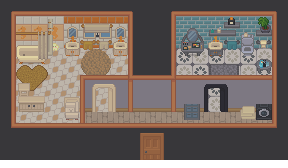
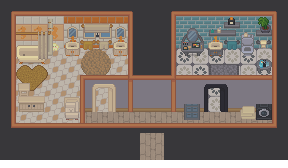
fix(playerPosition): merge development into current branch, resolved conflicts, made bathroom accessible

Changed region(s): [[0.4688, 0.7738, 0.5938, 0.9524]]

diff --git a/src/pixi/container/MainContainer.tsx b/src/pixi/container/MainContainer.tsx
@@ -3,23 +3,16 @@ import {Container, Graphics} from "@pixi/react";
 import {Texture} from "pixi.js";
 
 import {Level} from "@/pixi/levels/Level";
-import characterImage from "@/assets/character/character_movement.png";
 import {Character} from "@/pixi/character/Character";
 
 import {DEFAULT_POS_X, DEFAULT_POS_Y, TILE_SIZE} from "@/pixi/constants/world-settings";
-import {MapKey, Transition} from "@/types/maps";
+import {MapKey} from "@/types/maps";
 import {DoorState} from "@/types/door";
 import {Direction, Position} from "@/types/movement";
 
 import {useLevelTextures} from "@/hooks/map/useLevelTextures";
 import {getMapTransition, getSpawnForMap, getTransitionsForMap} from "@/utils/mapTransition";
 import {loadTexture} from "@/utils/loadTexture";
-import {MapKey} from "@/types/maps";
-import {useLevelTextures} from "@/hooks/map/useLevelTextures";
-import {getMapTransition, getSpawnForMap} from "@/utils/mapTransition";
-import {Position} from "@/types/movement";
-import {Door} from "@/pixi/levels/Door";
-import {DoorState} from "@/types/door";
 import {TransitionOverlay} from "@/pixi/components/TransitionOverlay";
 import {InteractivePixiElement} from "@/objects/InteractivePixiElement.ts";
 import {HeadUpDisplay} from "@/pixi/components/HeadUpDisplay.tsx";
@@ -29,7 +22,13 @@ import {characterPositionStore, useCharacterPosition} from "@/utils/characterPos
 import {useTutorialActive} from "@/hooks/gameService/useTutorialActive.ts";
 import {MovementButtons} from "@/components/general-ui/MovementButtons.tsx";
 import {ProximityHighlight} from "@/pixi/components/ProximityHighlight.tsx";
-import {RoomNames} from "@/objects/RoomNames.ts";
+import {RoomNames, roomNameToEnum} from "@/objects/RoomNames.ts";
+import {Camera} from "@/pixi/camera/Camera.tsx";
+import {DoorFloor} from "@/pixi/levels/DoorFloor.tsx";
+import {LevelOverlay} from "@/pixi/levels/LevelOverlay.tsx";
+import {DoorBlocker} from "@/pixi/components/DoorBlocker.tsx";
+import {DoorFrame} from "@/pixi/levels/DoorFrame.tsx";
+import {getTexture} from "@/components/character/CharacterSelector.tsx";
 
 interface MainContainerProps {
     canvasSize: {
@@ -67,9 +66,7 @@ export const MainContainer = ({
     /**
      * State to track the spawn position of the character.
      */
-    const [spawnPosition, setSpawnPosition] = useState<Position>({x: DEFAULT_POS_X, y: DEFAULT_POS_Y});
-
-    const characterTexture = useMemo(() => loadTexture(characterImage), []);
+  const characterTexture = useMemo(() => loadTexture(getTexture()), []);
   const { levelTexture, overlayTexture, doorFloorTexture,
     doorFrameFrontTexture, doorFrameBackTexture } = useLevelTextures(map);
   const { tile: characterTile } = useCharacterPosition();
@@ -120,8 +117,10 @@ export const MainContainer = ({
     const exitState = gameService.getExitState(map, transition.to);
     const isLocked = exitState === DoorState.Closed;
 
-    if (isLocked)
-    { setBlockedDoorTo(roomNameToEnum(transition.to) ?? null); return; }
+    if (isLocked) {
+      setBlockedDoorTo(roomNameToEnum(transition.to) ?? null);
+      return;
+    }
 
     setBlockedDoorTo(null);
 
@@ -130,26 +129,43 @@ export const MainContainer = ({
             ? { x: spawn.pos.x * TILE_SIZE, y: spawn.pos.y * TILE_SIZE }
             : { x: DEFAULT_POS_X, y: DEFAULT_POS_Y };
 
-    const face: Direction = spawn?.face ?? "UP";
+      const face: Direction = spawn?.face ?? "UP";
 
-      setPendingTransition({ to: transition.to, spawn: nextSpawn });
+      setPendingTransition({ to: transition.to, spawn: nextSpawn, face: face });
       setInTransition(true);
       setShouldSnapCamera(true);
-    }
+
   };
 
-  const transitionFromTop = (tr: Transition): boolean => {
-    return tr.to != RoomNames.BATHROOM
+  const getDoorFrames = (room: RoomNames, state: boolean) => {
+    const front = doorFrameFrontTexture
+    const back = doorFrameBackTexture
+
+    if(roomNameToEnum(map) != RoomNames.HALLWAY) return state ? doorFrameBackTexture : doorFrameFrontTexture
+    if (state){
+      switch (room){
+        case RoomNames.LIVINGROOM:
+          return [front[0], front[1], front[2]]
+        case RoomNames.KITCHEN:
+          return [front[3], front[4], front[5]]
+        default:
+          return []
+      }
+    }else{
+      if (room === RoomNames.BATHROOM){
+        return [back[0], back[1], back[2]]
+      }else{
+        return []
+      }
+    }
   }
 
   const doorFrame = (state: boolean) =>
           getTransitionsForMap(map)
-            .filter(tr => transitionFromTop(tr))
             .map((tr, i) => (
                     <DoorFrame
                             key={`${map}-${tr.to}-${i}`}
-                            index={i}
-                            textures={state ? doorFrameBackTexture : doorFrameFrontTexture}
+                            textures={getDoorFrames(roomNameToEnum(tr.to) as RoomNames,  state)}
                             map={map}
                             gameService={gameService}
                             transition={tr}
@@ -202,14 +218,13 @@ export const MainContainer = ({
                                   onMove={handleCharacterMove}
                                   collisionMap={collisionMap}
                                   isPaused={isPaused as boolean}
-                                  spawnPosition={spawnPosition}
                                   interactiveElements={interactiveElements}
                           />
                           <LevelOverlay texture={overlayTexture} />
                           {doorFrame(false)}
                           <DoorBlocker
                                   room={room}
-                                  to={blockedDoorTo}
+                                  to={blockedDoorTo as RoomNames}
                                   visible={!!blockedDoorTo}
                                   ww={canvasSize.width}
                                   wh={canvasSize.height}

diff --git a/src/pixi/constants/levels/level-textures.ts b/src/pixi/constants/levels/level-textures.ts
@@ -2,9 +2,9 @@ import livingroomImg from '@/assets/levels/livingroom/livingroom.png';
 import livingroomOverlayImg from '@/assets/levels/livingroom/livingroom_overlay.png';
 import kitchenImg from '@/assets/levels/kitchen/kitchen.png';
 import kitchenOverlayImg from '@/assets/levels/kitchen/kitchen_overlay.png';
-import kitchenDoorClosedImg from '@/assets/levels/kitchen/kitchen_door_closed.png';
-import kitchenDoorHalfOpenImg from '@/assets/levels/kitchen/kitchen_door_half_open.png';
-import kithenDoorOpenImg from '@/assets/levels/kitchen/kitchen_door_open.png';
+import defaultDoorClosedImg from '@/assets/levels/doors/door_closed.png';
+import defaultDoorHalfOpenImg from '@/assets/levels/doors/door_half_open.png';
+import defaultDoorOpenImg from '@/assets/levels/doors/door_open.png';
 import hallwayImg from '@/assets/levels/hallway/hallway.png';
 import hallwayOverlayImg from '@/assets/levels/hallway/hallway_overlay.png';
 import bathroomImg from '@/assets/levels/bathroom/bathroom.png';
@@ -33,20 +33,42 @@ import hallwayBathroomDoorOpenImg
 
 import livingRoomFloorImg from '@/assets/levels/hallway/doors/to_livingroom/floor/hallway_to_living_room_floor.png';
 import kitchenFloorImg from '@/assets/levels/hallway/doors/to_kitchen/floor/hallway_to_kitchen_floor.png';
-import bathroomFloorImg from '@/assets/levels/hallway/doors/to_bathroom/floor/hallway_to_kitchen_floor.png';
+import bathroomFloorImg from '@/assets/levels/hallway/doors/to_bathroom/floor/hallway_to_bathroom_floor.png';
 
-export const LEVEL_TEXTURES: {
-  hallway: { overlay: {}; level: {}; doorFloor: {}[]; doorFrameFront: {}[]; doorFrameBack: {}[] };
-  livingroom: { overlay: {}; level: {}; doorFrameFront: {}[] };
-  kitchen: { overlay: {}; level: {}; doorFrameFront: {}[] };
-  bathroom: { overlay: {}; level: {} }
-} = {
-  livingroom: { level: livingroomImg, overlay: livingroomOverlayImg, doorFrameFront: [kitchenDoorClosedImg, kitchenDoorHalfOpenImg, kithenDoorOpenImg]},
-  kitchen: { level: kitchenImg, overlay: kitchenOverlayImg, doorFrameFront: [kitchenDoorClosedImg, kitchenDoorHalfOpenImg, kithenDoorOpenImg]},
-  hallway: { level: hallwayImg, overlay: hallwayOverlayImg, doorFloor: [livingRoomFloorImg, kitchenFloorImg, bathroomFloorImg], doorFrameBack:
-            [hallwayLivingRoomDoorClosedImg, hallwayLivingRoomDoorHalfOpenImg, hallwayLivingRoomDoorOpenImg,
-              hallwayKitchenDoorClosedImg, hallwayKitchenDoorHalfOpenImg, hallwayKitchenDoorOpenImg],
-          doorFrameFront: [hallwayBathroomDoorClosedImg, hallwayBathroomDoorHalfOpenImg, hallwayBathroomDoorOpenImg]},
-  bathroom: { level: bathroomImg, overlay: bathroomOverlayImg },
+interface RoomTextures {
+  level: string;
+  overlay: string;
+  doorFloor?: string[];
+  doorFrameFront?: string[];
+  doorFrameBack?: string[];
+}
+
+export const LEVEL_TEXTURES = {
+  livingroom: {
+    level: livingroomImg as string,
+    overlay: livingroomOverlayImg as string,
+    doorFrameFront: [defaultDoorClosedImg, defaultDoorHalfOpenImg, defaultDoorOpenImg] as string[]
+  } as RoomTextures,
+
+  kitchen: {
+    level: kitchenImg as string,
+    overlay: kitchenOverlayImg as string,
+    doorFrameFront: [defaultDoorClosedImg, defaultDoorHalfOpenImg, defaultDoorOpenImg] as string[],
+  } as RoomTextures,
+
+  hallway: {
+    level: hallwayImg as string,
+    overlay: hallwayOverlayImg as string,
+    doorFloor: [livingRoomFloorImg, kitchenFloorImg, bathroomFloorImg] as string[],
+    doorFrameFront: [hallwayLivingRoomDoorClosedImg, hallwayLivingRoomDoorHalfOpenImg, hallwayLivingRoomDoorOpenImg,
+              hallwayKitchenDoorClosedImg, hallwayKitchenDoorHalfOpenImg, hallwayKitchenDoorOpenImg] as string[],
+    doorFrameBack: [hallwayBathroomDoorClosedImg, hallwayBathroomDoorHalfOpenImg, hallwayBathroomDoorOpenImg] as string[]
+  } as RoomTextures,
+
+  bathroom: {
+    level: bathroomImg as string,
+    overlay: bathroomOverlayImg as string,
+    doorFrameFront: [defaultDoorClosedImg, defaultDoorHalfOpenImg, defaultDoorOpenImg] as string[],
+  } as RoomTextures,
 
 };

diff --git a/src/hooks/map/useLevelTextures.ts b/src/hooks/map/useLevelTextures.ts
@@ -2,16 +2,16 @@ import {useMemo} from 'react';
 import {MapKey} from '@/types/maps';
 import {LEVEL_TEXTURES} from '@/pixi/constants/levels/level-textures';
 import {loadTexture} from '@/utils/loadTexture';
-import {RoomNames, roomNameToEnum} from "@/objects/RoomNames.ts";
 import {Texture} from "@pixi/core";
 
 export function useLevelTextures(map: MapKey) {
-  const roomName = roomNameToEnum(map) ?? RoomNames.LIVINGROOM
+  const toTextures = (arr?: (string | undefined)[]): Texture[] =>
+          (arr ?? []).filter((s): s is string => !!s).map((s) => loadTexture(s, 0));
   return useMemo(() => {
     const { level, overlay, doorFloor, doorFrameFront, doorFrameBack } = LEVEL_TEXTURES[map];
-    const doorFloorTextures = doorFloor ? doorFloor.map(t => loadTexture(t, 0)) : undefined;
-    const doorFrameFrontTextures: Texture[] = doorFrameFront ? doorFrameFront.map(t => loadTexture(t, 0)) : [];
-    const doorFrameBackTextures: Texture[] = doorFrameBack ? doorFrameBack.map(t => loadTexture(t, 0)) : [];
+    const doorFloorTextures = doorFloor ? toTextures(doorFloor) : undefined;
+    const doorFrameFrontTextures = toTextures(doorFrameFront);
+    const doorFrameBackTextures  = toTextures(doorFrameBack);
     return {
       levelTexture: loadTexture(level),
       overlayTexture: loadTexture(overlay),

diff --git a/src/services/GameService.ts b/src/services/GameService.ts
@@ -67,7 +67,10 @@ export class GameService {
       new SmartDevice("SecurityCamera", t`Let's first set the privacy settings by untoggeling the unnecessary permissions. Then we need to choose which camera placenemts are ok. Keep in mind your privacy and the privacy rights of others, that might be in the security camera frame. Places that are more private and intimat should probably not have a security camera pointing at them.`),
     ]);
 
-    return [livingRoom, hallway, kitchen];
+    const bathroom = new Room(RoomNames.BATHROOM, []);
+    bathroom.complete()
+
+    return [livingRoom, hallway, kitchen, bathroom];
   }
 
   getAllRooms(): Room[] {
@@ -87,14 +90,6 @@ export class GameService {
       this.finishGame();
     }
     this.onGameStateChange();
-  }
-
-  private navigateAfterComplete(): void {
-    if (this.checkGameCompletionConditions()) {
-      this.finishGame();
-    } else {
-      this.continueGame();
-    }
   }
 
   checkGameCompletionConditions(): boolean {

diff --git a/src/components/rooms/Kitchen.tsx b/src/components/rooms/Kitchen.tsx
@@ -17,13 +17,8 @@ import {usePauseState} from "@/hooks/gameService/usePauseState.ts";
 
 export const Kitchen = () => {
     const gameService = useGameService();
-    const smartDevices: SmartDevice[] = gameService.getDeviceForRoom(roomName);
     const roomName = RoomNames.KITCHEN
-    const [isPaused, setIsPaused] = useState(false);
-
-    const smartHomeHubModalRef = useRef<{ toggleModal: () => void } | null>(null);
-  const smartKitchenModalRef = useRef<{ toggleModal: () => void } | null>(null);
-  const securityCameraModalRef = useRef<{ toggleModal: () => void } | null>(null);
+    const smartDevices: SmartDevice[] = gameService.getDeviceForRoom(roomName);
 
   const [activeDevice, setActiveDevice] = useState<string | null>(null);
   const sdEnabled = useSmarDevicesEnabledState();

diff --git a/src/pixi/components/DoorBlocker.tsx b/src/pixi/components/DoorBlocker.tsx
@@ -1,7 +1,5 @@
 import {useCallback} from "react";
 import {Graphics} from "@pixi/react";
-import {OFFSET_X, OFFSET_Y, TILE_SIZE} from "@/pixi/constants/world-settings";
-import type {Position} from "@/types/movement";
 import {Graphics as PixiGraphics} from "pixi.js";
 import {getBlockOffset} from "@/utils/doorBlockOffsets.ts";
 import {RoomNames} from "@/objects/RoomNames.ts";
@@ -10,7 +8,7 @@ type DoorBlockerProps = {
   room: RoomNames
   ww: number;
   wh: number;
-  to
+  to: RoomNames
   visible?: boolean;
   alpha?: number;
   color?: number;
@@ -48,7 +46,7 @@ export function DoorBlocker({
             );
             g.endFill();
           },
-          [to, visible, alpha, color, room]
+          [to, visible, alpha, color, room, ww, wh]
   );
 
 

diff --git a/src/pixi/levels/DoorFrame.tsx b/src/pixi/levels/DoorFrame.tsx
@@ -10,7 +10,6 @@ interface LevelProps {
   map: MapKey;
   gameService: GameService;
   transition: Transition;
-  index: number;
 }
 
 const stateToIndex = {
@@ -19,13 +18,11 @@ const stateToIndex = {
   [DoorState.Open]: 2,
 };
 
-export const DoorFrame = ({ textures, map, gameService, transition, index}: LevelProps) => {
+export const DoorFrame = ({ textures, map, gameService, transition}: LevelProps) => {
   if (!textures) return null;
 
   const state=gameService.getExitState(map, transition.to);
-  const i=stateToIndex[state] + index*3;
-
-  const texture = textures[i];
+  const texture = textures[stateToIndex[state]];
   if (!texture) return null;
 
   return (

diff --git a/src/pixi/constants/levels/maps/hallway-map.ts b/src/pixi/constants/levels/maps/hallway-map.ts
@@ -35,5 +35,5 @@ export const HALLWAY_OVERLAYS: Overlay[] = [
 export const HALLWAY_SPAWNS: SpawnTable = {
   livingroom: { pos: SPAWN_FROM_LIVINGROOM, face: "DOWN" },
   kitchen:    { pos: SPAWN_FROM_KITCHEN,    face: "DOWN" },
-  bathroom:   { pos: SPAWN_FROM_BATHROOM,    face: "DOWN" },
+  bathroom:   { pos: SPAWN_FROM_BATHROOM,    face: "UP" },
 };

diff --git a/src/pixi/levels/DoorFloor.tsx b/src/pixi/levels/DoorFloor.tsx
@@ -17,7 +17,6 @@ export const DoorFloor = ({ textures, room, map, gameService }: LevelProps) => {
   if (!textures) return null;
   if (gameService.getRoom(room).isLocked) return null;
 
-
   return (
           <>
             {textures.slice(0, getTransitionsForMap(map).length).map((texture, i) => (
